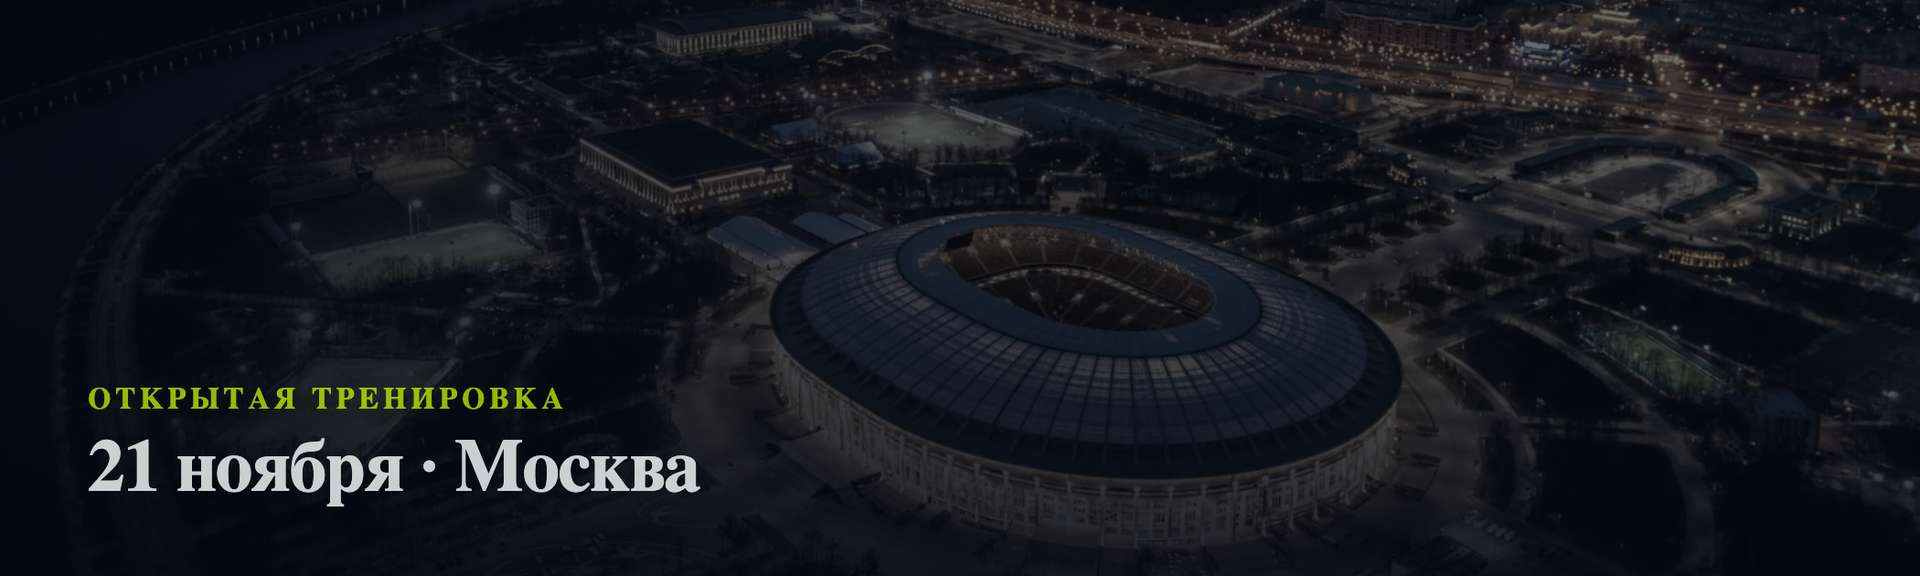
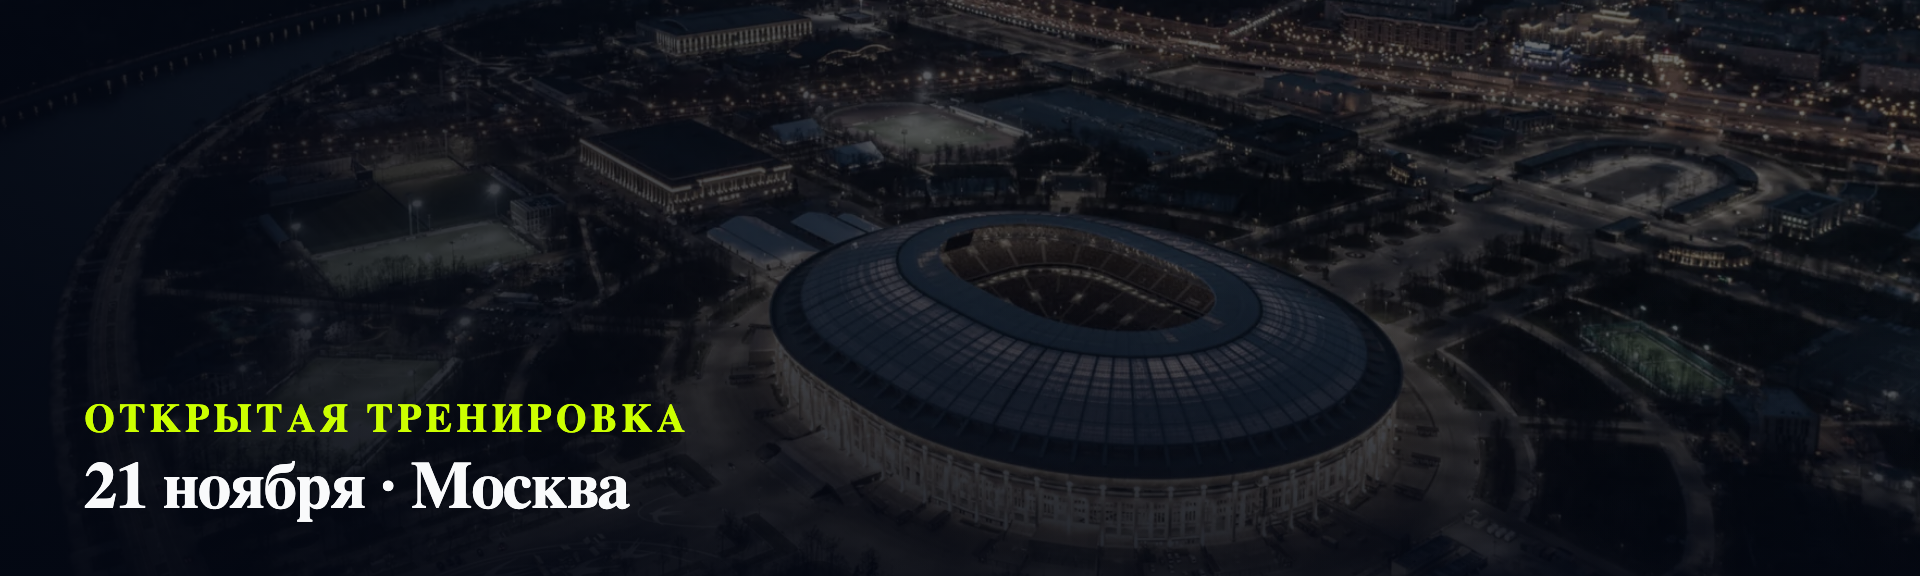
Update card copy and enlarge event teaser text

Changed region(s): [[0.0312, 0.6562, 0.375, 0.9062]]

diff --git a/docs/journal/2026-10-29-bot-welcome-card.md b/docs/journal/2026-10-29-bot-welcome-card.md
@@ -141,3 +141,9 @@
 - Приветственная карточка пересобрана в горизонтальном формате 1600×1200 (4:3), файл 1920×1440.
 - Карточка открытой тренировки приведена к той же ширине: 1920×576.
 - Обе карточки теперь 1920 px по ширине; тестовые отправки — message_id 115 и 117.
+
+## Новый текст на карточках
+
+- Приветственная: «Система тренировок олимпийского чемпиона. Диагностика, разбор, план и поддержка».
+- Карточка открытой тренировки: подпись и дата увеличены до 40 и 66 px, текст стал контрастным; формат 1920×576.
+- Тестовые отправки — message_id 122 и 123.
